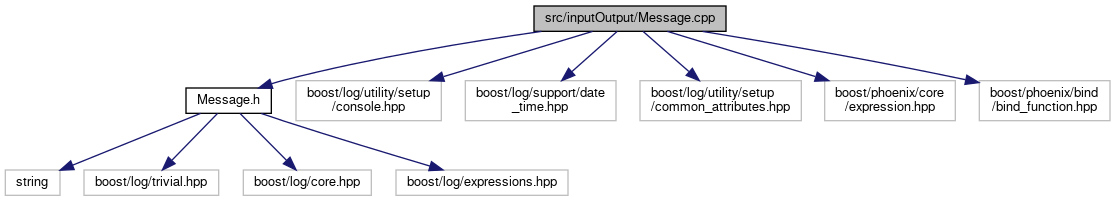
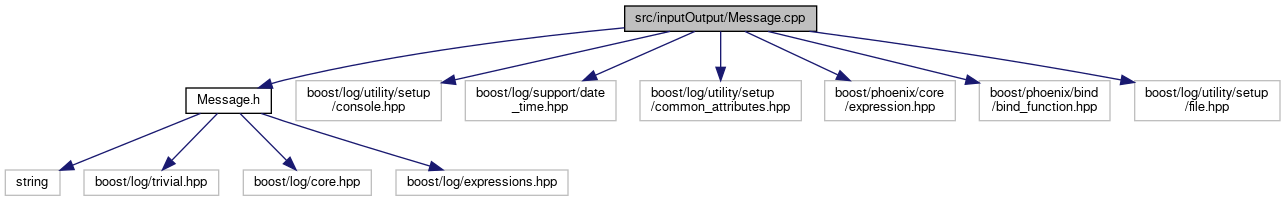
deploy: d9ef6aadc21c082cf5d025acb390889a08f9d525

diff --git a/_message_8h_source.html b/_message_8h_source.html
@@ -96,39 +96,43 @@ $(function() {
 <div class="line"><a name="l00024"></a><span class="lineno">   24</span>&#160;<span class="preprocessor">#include &lt;boost/log/trivial.hpp&gt;</span></div>
 <div class="line"><a name="l00025"></a><span class="lineno">   25</span>&#160;<span class="preprocessor">#include &lt;boost/log/core.hpp&gt;</span></div>
 <div class="line"><a name="l00026"></a><span class="lineno">   26</span>&#160;<span class="preprocessor">#include &lt;boost/log/expressions.hpp&gt;</span></div>
-<div class="line"><a name="l00027"></a><span class="lineno">   27</span>&#160;<span class="keyword">namespace </span><a class="code" href="namespace_e_v_a_a.html">EVAA</a> {</div>
-<div class="line"><a name="l00031"></a><span class="lineno"><a class="line" href="class_e_v_a_a_1_1_message.html">   31</a></span>&#160;    <span class="keyword">class </span><a class="code" href="class_e_v_a_a_1_1_message.html">Message</a> {</div>
-<div class="line"><a name="l00032"></a><span class="lineno">   32</span>&#160;    <span class="keyword">public</span>:</div>
-<div class="line"><a name="l00038"></a><span class="lineno">   38</span>&#160;        <span class="comment">//Message(void);</span></div>
-<div class="line"><a name="l00043"></a><span class="lineno">   43</span>&#160;<span class="comment"></span>        <span class="keywordtype">void</span> <a class="code" href="class_e_v_a_a_1_1_message.html#acbf72b0cb540abf7a7122eb37c1009f5">writeASCIIArt</a>(<span class="keywordtype">void</span>);</div>
-<div class="line"><a name="l00048"></a><span class="lineno">   48</span>&#160;        <span class="keywordtype">void</span> <a class="code" href="class_e_v_a_a_1_1_message.html#a29d03e9abfef13d54e285cdc12f7bf37">init</a>(<span class="keywordtype">void</span>);</div>
-<div class="line"><a name="l00050"></a><span class="lineno">   50</span>&#160;    };</div>
-<div class="line"><a name="l00051"></a><span class="lineno">   51</span>&#160; </div>
-<div class="line"><a name="l00052"></a><span class="lineno">   52</span>&#160; </div>
-<div class="line"><a name="l00053"></a><span class="lineno"><a class="line" href="_message_8h.html#a6ff63e8955665c4a58b1598f2b07c51a">   53</a></span>&#160;<span class="preprocessor">#define LOG_DEBUG \</span></div>
-<div class="line"><a name="l00054"></a><span class="lineno">   54</span>&#160;<span class="preprocessor">    BOOST_LOG_STREAM_WITH_PARAMS(::boost::log::trivial::logger::get(),\</span></div>
-<div class="line"><a name="l00055"></a><span class="lineno">   55</span>&#160;<span class="preprocessor">        (::boost::log::keywords::severity = ::boost::log::trivial::debug))</span></div>
-<div class="line"><a name="l00056"></a><span class="lineno">   56</span>&#160; </div>
-<div class="line"><a name="l00057"></a><span class="lineno"><a class="line" href="_message_8h.html#aeb4f36db01bd128c7afeac5889dac311">   57</a></span>&#160;<span class="preprocessor">#define LOG_INFO \</span></div>
-<div class="line"><a name="l00058"></a><span class="lineno">   58</span>&#160;<span class="preprocessor">        BOOST_LOG_STREAM_WITH_PARAMS(::boost::log::trivial::logger::get(), \</span></div>
-<div class="line"><a name="l00059"></a><span class="lineno">   59</span>&#160;<span class="preprocessor">            (::boost::log::keywords::severity = ::boost::log::trivial::info))</span></div>
-<div class="line"><a name="l00060"></a><span class="lineno">   60</span>&#160; </div>
-<div class="line"><a name="l00061"></a><span class="lineno"><a class="line" href="_message_8h.html#adf4476a6a4ea6c74231c826e899d7189">   61</a></span>&#160;<span class="preprocessor">#define LOG_WARNING \</span></div>
-<div class="line"><a name="l00062"></a><span class="lineno">   62</span>&#160;<span class="preprocessor">            BOOST_LOG_STREAM_WITH_PARAMS(::boost::log::trivial::logger::get(), \</span></div>
-<div class="line"><a name="l00063"></a><span class="lineno">   63</span>&#160;<span class="preprocessor">                (::boost::log::keywords::severity = ::boost::log::trivial::warning))</span></div>
-<div class="line"><a name="l00064"></a><span class="lineno">   64</span>&#160; </div>
-<div class="line"><a name="l00065"></a><span class="lineno"><a class="line" href="_message_8h.html#aced66975c154ea0e2a8ec3bc818b4e08">   65</a></span>&#160;<span class="preprocessor">#define LOG_ERROR \</span></div>
-<div class="line"><a name="l00066"></a><span class="lineno">   66</span>&#160;<span class="preprocessor">            BOOST_LOG_STREAM_WITH_PARAMS(::boost::log::trivial::logger::get(), \</span></div>
-<div class="line"><a name="l00067"></a><span class="lineno">   67</span>&#160;<span class="preprocessor">                (::boost::log::keywords::severity = ::boost::log::trivial::error))</span></div>
-<div class="line"><a name="l00068"></a><span class="lineno">   68</span>&#160; </div>
-<div class="line"><a name="l00069"></a><span class="lineno">   69</span>&#160;}  <span class="comment">// namespace EVAA</span></div>
+<div class="line"><a name="l00027"></a><span class="lineno">   27</span>&#160; </div>
+<div class="line"><a name="l00028"></a><span class="lineno">   28</span>&#160;<span class="keyword">namespace </span><a class="code" href="namespace_e_v_a_a.html">EVAA</a> {</div>
+<div class="line"><a name="l00032"></a><span class="lineno"><a class="line" href="class_e_v_a_a_1_1_message.html">   32</a></span>&#160;    <span class="keyword">class </span><a class="code" href="class_e_v_a_a_1_1_message.html">Message</a> {</div>
+<div class="line"><a name="l00033"></a><span class="lineno">   33</span>&#160;    <span class="keyword">public</span>:</div>
+<div class="line"><a name="l00039"></a><span class="lineno">   39</span>&#160;        <span class="comment">//Message(void);</span></div>
+<div class="line"><a name="l00044"></a><span class="lineno">   44</span>&#160;<span class="comment"></span>        <span class="keywordtype">void</span> <a class="code" href="class_e_v_a_a_1_1_message.html#acbf72b0cb540abf7a7122eb37c1009f5">writeASCIIArt</a>(<span class="keywordtype">void</span>);</div>
+<div class="line"><a name="l00049"></a><span class="lineno">   49</span>&#160;        <span class="keywordtype">void</span> <a class="code" href="class_e_v_a_a_1_1_message.html#a07beaa84345d14c3d4ba4c5a21ef1263">initLogging</a>(<span class="keywordtype">void</span>);</div>
+<div class="line"><a name="l00055"></a><span class="lineno">   55</span>&#160;    <span class="keyword">private</span>:</div>
+<div class="line"><a name="l00056"></a><span class="lineno">   56</span>&#160;        </div>
+<div class="line"><a name="l00058"></a><span class="lineno">   58</span>&#160;    };</div>
+<div class="line"><a name="l00059"></a><span class="lineno">   59</span>&#160;    std::string_view <a class="code" href="namespace_e_v_a_a.html#aa47bd37f8259f0895bb1b77b778b6c82">formatMessage</a>(boost::log::value_ref&lt; std::string, boost::log::expressions::tag::smessage &gt; <span class="keyword">const</span>&amp; t_message);</div>
+<div class="line"><a name="l00060"></a><span class="lineno">   60</span>&#160;    </div>
+<div class="line"><a name="l00061"></a><span class="lineno">   61</span>&#160; </div>
+<div class="line"><a name="l00062"></a><span class="lineno"><a class="line" href="_message_8h.html#a6ff63e8955665c4a58b1598f2b07c51a">   62</a></span>&#160;<span class="preprocessor">#define LOG_DEBUG \</span></div>
+<div class="line"><a name="l00063"></a><span class="lineno">   63</span>&#160;<span class="preprocessor">    BOOST_LOG_STREAM_WITH_PARAMS(::boost::log::trivial::logger::get(),\</span></div>
+<div class="line"><a name="l00064"></a><span class="lineno">   64</span>&#160;<span class="preprocessor">        (::boost::log::keywords::severity = ::boost::log::trivial::debug))</span></div>
+<div class="line"><a name="l00065"></a><span class="lineno">   65</span>&#160; </div>
+<div class="line"><a name="l00066"></a><span class="lineno"><a class="line" href="_message_8h.html#aeb4f36db01bd128c7afeac5889dac311">   66</a></span>&#160;<span class="preprocessor">#define LOG_INFO \</span></div>
+<div class="line"><a name="l00067"></a><span class="lineno">   67</span>&#160;<span class="preprocessor">        BOOST_LOG_STREAM_WITH_PARAMS(::boost::log::trivial::logger::get(), \</span></div>
+<div class="line"><a name="l00068"></a><span class="lineno">   68</span>&#160;<span class="preprocessor">            (::boost::log::keywords::severity = ::boost::log::trivial::info))</span></div>
+<div class="line"><a name="l00069"></a><span class="lineno">   69</span>&#160; </div>
+<div class="line"><a name="l00070"></a><span class="lineno"><a class="line" href="_message_8h.html#adf4476a6a4ea6c74231c826e899d7189">   70</a></span>&#160;<span class="preprocessor">#define LOG_WARNING \</span></div>
+<div class="line"><a name="l00071"></a><span class="lineno">   71</span>&#160;<span class="preprocessor">            BOOST_LOG_STREAM_WITH_PARAMS(::boost::log::trivial::logger::get(), \</span></div>
+<div class="line"><a name="l00072"></a><span class="lineno">   72</span>&#160;<span class="preprocessor">                (::boost::log::keywords::severity = ::boost::log::trivial::warning))</span></div>
+<div class="line"><a name="l00073"></a><span class="lineno">   73</span>&#160; </div>
+<div class="line"><a name="l00074"></a><span class="lineno"><a class="line" href="_message_8h.html#aced66975c154ea0e2a8ec3bc818b4e08">   74</a></span>&#160;<span class="preprocessor">#define LOG_ERROR \</span></div>
+<div class="line"><a name="l00075"></a><span class="lineno">   75</span>&#160;<span class="preprocessor">            BOOST_LOG_STREAM_WITH_PARAMS(::boost::log::trivial::logger::get(), \</span></div>
+<div class="line"><a name="l00076"></a><span class="lineno">   76</span>&#160;<span class="preprocessor">                (::boost::log::keywords::severity = ::boost::log::trivial::error))</span></div>
+<div class="line"><a name="l00077"></a><span class="lineno">   77</span>&#160; </div>
+<div class="line"><a name="l00078"></a><span class="lineno">   78</span>&#160;}  <span class="comment">// namespace EVAA</span></div>
 </div><!-- fragment --></div><!-- contents -->
 <div class="ttc" id="anamespace_e_v_a_a_html"><div class="ttname"><a href="namespace_e_v_a_a.html">EVAA</a></div><div class="ttdef"><b>Definition:</b> EVAAComputeEngine.cpp:24</div></div>
-<div class="ttc" id="aclass_e_v_a_a_1_1_message_html_a29d03e9abfef13d54e285cdc12f7bf37"><div class="ttname"><a href="class_e_v_a_a_1_1_message.html#a29d03e9abfef13d54e285cdc12f7bf37">EVAA::Message::init</a></div><div class="ttdeci">void init(void)</div><div class="ttdoc">Constructor.</div><div class="ttdef"><b>Definition:</b> Message.cpp:48</div></div>
-<div class="ttc" id="aclass_e_v_a_a_1_1_message_html"><div class="ttname"><a href="class_e_v_a_a_1_1_message.html">EVAA::Message</a></div><div class="ttdoc">Class wrapper to boost logging.</div><div class="ttdef"><b>Definition:</b> Message.h:31</div></div>
-<div class="ttc" id="aclass_e_v_a_a_1_1_message_html_acbf72b0cb540abf7a7122eb37c1009f5"><div class="ttname"><a href="class_e_v_a_a_1_1_message.html#acbf72b0cb540abf7a7122eb37c1009f5">EVAA::Message::writeASCIIArt</a></div><div class="ttdeci">void writeASCIIArt(void)</div><div class="ttdoc">Constructor.</div><div class="ttdef"><b>Definition:</b> Message.cpp:63</div></div>
-<div class="ttc" id="anamespace_e_v_a_a_html_ac8051393f5b0a3c5dfefe74dc6592d2c"><div class="ttname"><a href="namespace_e_v_a_a.html#ac8051393f5b0a3c5dfefe74dc6592d2c">EVAA::formatMessage</a></div><div class="ttdeci">std::string_view formatMessage(boost::log::value_ref&lt; std::string, boost::log::expressions::tag::smessage &gt; const &amp;message)</div><div class="ttdef"><b>Definition:</b> Message.cpp:33</div></div>
-<div class="ttc" id="a_message_8h_html_aeb4f36db01bd128c7afeac5889dac311"><div class="ttname"><a href="_message_8h.html#aeb4f36db01bd128c7afeac5889dac311">LOG_INFO</a></div><div class="ttdeci">#define LOG_INFO</div><div class="ttdef"><b>Definition:</b> Message.h:57</div></div>
+<div class="ttc" id="anamespace_e_v_a_a_html_aa47bd37f8259f0895bb1b77b778b6c82"><div class="ttname"><a href="namespace_e_v_a_a.html#aa47bd37f8259f0895bb1b77b778b6c82">EVAA::formatMessage</a></div><div class="ttdeci">std::string_view formatMessage(boost::log::value_ref&lt; std::string, boost::log::expressions::tag::smessage &gt; const &amp;t_message)</div><div class="ttdef"><b>Definition:</b> Message.cpp:33</div></div>
+<div class="ttc" id="aclass_e_v_a_a_1_1_message_html"><div class="ttname"><a href="class_e_v_a_a_1_1_message.html">EVAA::Message</a></div><div class="ttdoc">Class wrapper to boost logging.</div><div class="ttdef"><b>Definition:</b> Message.h:32</div></div>
+<div class="ttc" id="aclass_e_v_a_a_1_1_message_html_acbf72b0cb540abf7a7122eb37c1009f5"><div class="ttname"><a href="class_e_v_a_a_1_1_message.html#acbf72b0cb540abf7a7122eb37c1009f5">EVAA::Message::writeASCIIArt</a></div><div class="ttdeci">void writeASCIIArt(void)</div><div class="ttdoc">Constructor.</div><div class="ttdef"><b>Definition:</b> Message.cpp:72</div></div>
+<div class="ttc" id="a_message_8h_html_aeb4f36db01bd128c7afeac5889dac311"><div class="ttname"><a href="_message_8h.html#aeb4f36db01bd128c7afeac5889dac311">LOG_INFO</a></div><div class="ttdeci">#define LOG_INFO</div><div class="ttdef"><b>Definition:</b> Message.h:66</div></div>
+<div class="ttc" id="aclass_e_v_a_a_1_1_message_html_a07beaa84345d14c3d4ba4c5a21ef1263"><div class="ttname"><a href="class_e_v_a_a_1_1_message.html#a07beaa84345d14c3d4ba4c5a21ef1263">EVAA::Message::initLogging</a></div><div class="ttdeci">void initLogging(void)</div><div class="ttdoc">init logger</div><div class="ttdef"><b>Definition:</b> Message.cpp:47</div></div>
 <div class="ttc" id="a_message_8h_html"><div class="ttname"><a href="_message_8h.html">Message.h</a></div></div>
 <!-- start footer part -->
 <hr class="footer"/><address class="footer"><small>

diff --git a/_auxiliary_functions_8h_source.html b/_auxiliary_functions_8h_source.html
@@ -105,22 +105,23 @@ $(function() {
 <div class="line"><a name="l00047"></a><span class="lineno">   47</span>&#160;}  <span class="comment">// namespace EVAA</span></div>
 </div><!-- fragment --></div><!-- contents -->
 <div class="ttc" id="aclass_e_v_a_a_1_1_auxiliary_functions_html"><div class="ttname"><a href="class_e_v_a_a_1_1_auxiliary_functions.html">EVAA::AuxiliaryFunctions</a></div><div class="ttdef"><b>Definition:</b> AuxiliaryFunctions.h:32</div></div>
-<div class="ttc" id="a_message_8h_html_adf4476a6a4ea6c74231c826e899d7189"><div class="ttname"><a href="_message_8h.html#adf4476a6a4ea6c74231c826e899d7189">LOG_WARNING</a></div><div class="ttdeci">#define LOG_WARNING</div><div class="ttdef"><b>Definition:</b> Message.h:61</div></div>
+<div class="ttc" id="a_message_8h_html_adf4476a6a4ea6c74231c826e899d7189"><div class="ttname"><a href="_message_8h.html#adf4476a6a4ea6c74231c826e899d7189">LOG_WARNING</a></div><div class="ttdeci">#define LOG_WARNING</div><div class="ttdef"><b>Definition:</b> Message.h:70</div></div>
 <div class="ttc" id="anamespace_e_v_a_a_html"><div class="ttname"><a href="namespace_e_v_a_a.html">EVAA</a></div><div class="ttdef"><b>Definition:</b> EVAAComputeEngine.cpp:24</div></div>
 <div class="ttc" id="a_e_v_a_a_compute_engine_8h_html"><div class="ttname"><a href="_e_v_a_a_compute_engine_8h.html">EVAAComputeEngine.h</a></div></div>
-<div class="ttc" id="a_message_8h_html_aced66975c154ea0e2a8ec3bc818b4e08"><div class="ttname"><a href="_message_8h.html#aced66975c154ea0e2a8ec3bc818b4e08">LOG_ERROR</a></div><div class="ttdeci">#define LOG_ERROR</div><div class="ttdef"><b>Definition:</b> Message.h:65</div></div>
-<div class="ttc" id="aclass_e_v_a_a_1_1_message_html_a29d03e9abfef13d54e285cdc12f7bf37"><div class="ttname"><a href="class_e_v_a_a_1_1_message.html#a29d03e9abfef13d54e285cdc12f7bf37">EVAA::Message::init</a></div><div class="ttdeci">void init(void)</div><div class="ttdoc">Constructor.</div><div class="ttdef"><b>Definition:</b> Message.cpp:48</div></div>
+<div class="ttc" id="a_message_8h_html_aced66975c154ea0e2a8ec3bc818b4e08"><div class="ttname"><a href="_message_8h.html#aced66975c154ea0e2a8ec3bc818b4e08">LOG_ERROR</a></div><div class="ttdeci">#define LOG_ERROR</div><div class="ttdef"><b>Definition:</b> Message.h:74</div></div>
+<div class="ttc" id="a_message_8h_html_a6ff63e8955665c4a58b1598f2b07c51a"><div class="ttname"><a href="_message_8h.html#a6ff63e8955665c4a58b1598f2b07c51a">LOG_DEBUG</a></div><div class="ttdeci">#define LOG_DEBUG</div><div class="ttdef"><b>Definition:</b> Message.h:62</div></div>
 <div class="ttc" id="amain_8cpp_html_a3c04138a5bfe5d72780bb7e82a18e627"><div class="ttname"><a href="main_8cpp.html#a3c04138a5bfe5d72780bb7e82a18e627">main</a></div><div class="ttdeci">int main(int argc, char **argv)</div><div class="ttdef"><b>Definition:</b> main.cpp:68</div></div>
 <div class="ttc" id="aclass_e_v_a_a_1_1_auxiliary_parameters_html_a08664589ab24b5dba63d6f0d4622d2a3"><div class="ttname"><a href="class_e_v_a_a_1_1_auxiliary_parameters.html#a08664589ab24b5dba63d6f0d4622d2a3">EVAA::AuxiliaryParameters::gitSHA1</a></div><div class="ttdeci">static const std::string gitSHA1</div><div class="ttdoc">Git hash is determined during configure by cmake.</div><div class="ttdef"><b>Definition:</b> AuxiliaryParameters.h:43</div></div>
-<div class="ttc" id="aclass_e_v_a_a_1_1_message_html"><div class="ttname"><a href="class_e_v_a_a_1_1_message.html">EVAA::Message</a></div><div class="ttdoc">Class wrapper to boost logging.</div><div class="ttdef"><b>Definition:</b> Message.h:31</div></div>
+<div class="ttc" id="aclass_e_v_a_a_1_1_message_html"><div class="ttname"><a href="class_e_v_a_a_1_1_message.html">EVAA::Message</a></div><div class="ttdoc">Class wrapper to boost logging.</div><div class="ttdef"><b>Definition:</b> Message.h:32</div></div>
 <div class="ttc" id="aclass_e_v_a_a_1_1_e_v_a_a_compute_engine_html"><div class="ttname"><a href="class_e_v_a_a_1_1_e_v_a_a_compute_engine.html">EVAA::EVAAComputeEngine</a></div><div class="ttdoc">Class ComputeEngine the core of EVAA.</div><div class="ttdef"><b>Definition:</b> EVAAComputeEngine.h:34</div></div>
 <div class="ttc" id="aclass_e_v_a_a_1_1_auxiliary_functions_html_a71497d0566bfbfa3e9ad34fd2e5edf46"><div class="ttname"><a href="class_e_v_a_a_1_1_auxiliary_functions.html#a71497d0566bfbfa3e9ad34fd2e5edf46">EVAA::AuxiliaryFunctions::AuxiliaryFunctions</a></div><div class="ttdeci">AuxiliaryFunctions()</div><div class="ttdoc">Constructor.</div><div class="ttdef"><b>Definition:</b> AuxiliaryFunctions.cpp:26</div></div>
-<div class="ttc" id="aclass_e_v_a_a_1_1_message_html_acbf72b0cb540abf7a7122eb37c1009f5"><div class="ttname"><a href="class_e_v_a_a_1_1_message.html#acbf72b0cb540abf7a7122eb37c1009f5">EVAA::Message::writeASCIIArt</a></div><div class="ttdeci">void writeASCIIArt(void)</div><div class="ttdoc">Constructor.</div><div class="ttdef"><b>Definition:</b> Message.cpp:63</div></div>
+<div class="ttc" id="aclass_e_v_a_a_1_1_message_html_acbf72b0cb540abf7a7122eb37c1009f5"><div class="ttname"><a href="class_e_v_a_a_1_1_message.html#acbf72b0cb540abf7a7122eb37c1009f5">EVAA::Message::writeASCIIArt</a></div><div class="ttdeci">void writeASCIIArt(void)</div><div class="ttdoc">Constructor.</div><div class="ttdef"><b>Definition:</b> Message.cpp:72</div></div>
 <div class="ttc" id="a_auxiliary_functions_8h_html"><div class="ttname"><a href="_auxiliary_functions_8h.html">AuxiliaryFunctions.h</a></div></div>
 <div class="ttc" id="a_auxiliary_parameters_8h_html"><div class="ttname"><a href="_auxiliary_parameters_8h.html">AuxiliaryParameters.h</a></div></div>
 <div class="ttc" id="aclass_e_v_a_a_1_1_auxiliary_functions_html_ab473255d6d4322110e149996e57fd210"><div class="ttname"><a href="class_e_v_a_a_1_1_auxiliary_functions.html#ab473255d6d4322110e149996e57fd210">EVAA::AuxiliaryFunctions::~AuxiliaryFunctions</a></div><div class="ttdeci">~AuxiliaryFunctions()</div><div class="ttdoc">Destructor.</div><div class="ttdef"><b>Definition:</b> AuxiliaryFunctions.cpp:27</div></div>
 <div class="ttc" id="aclass_e_v_a_a_1_1_e_v_a_a_compute_engine_html_ae076fab71df130b1a7eb17af2f7df3cd"><div class="ttname"><a href="class_e_v_a_a_1_1_e_v_a_a_compute_engine.html#ae076fab71df130b1a7eb17af2f7df3cd">EVAA::EVAAComputeEngine::testHDF5</a></div><div class="ttdeci">void testHDF5(std::string t_outputFileName)</div><div class="ttdoc">Test hdf5 output demo write.</div><div class="ttdef"><b>Definition:</b> EVAAComputeEngine.cpp:29</div></div>
-<div class="ttc" id="a_message_8h_html_aeb4f36db01bd128c7afeac5889dac311"><div class="ttname"><a href="_message_8h.html#aeb4f36db01bd128c7afeac5889dac311">LOG_INFO</a></div><div class="ttdeci">#define LOG_INFO</div><div class="ttdef"><b>Definition:</b> Message.h:57</div></div>
+<div class="ttc" id="a_message_8h_html_aeb4f36db01bd128c7afeac5889dac311"><div class="ttname"><a href="_message_8h.html#aeb4f36db01bd128c7afeac5889dac311">LOG_INFO</a></div><div class="ttdeci">#define LOG_INFO</div><div class="ttdef"><b>Definition:</b> Message.h:66</div></div>
+<div class="ttc" id="aclass_e_v_a_a_1_1_message_html_a07beaa84345d14c3d4ba4c5a21ef1263"><div class="ttname"><a href="class_e_v_a_a_1_1_message.html#a07beaa84345d14c3d4ba4c5a21ef1263">EVAA::Message::initLogging</a></div><div class="ttdeci">void initLogging(void)</div><div class="ttdoc">init logger</div><div class="ttdef"><b>Definition:</b> Message.cpp:47</div></div>
 <div class="ttc" id="a_message_8h_html"><div class="ttname"><a href="_message_8h.html">Message.h</a></div></div>
 <!-- start footer part -->
 <hr class="footer"/><address class="footer"><small>

diff --git a/class_e_v_a_a_1_1_message.html b/class_e_v_a_a_1_1_message.html
@@ -84,21 +84,21 @@ Public Member Functions</h2></td></tr>
 <tr class="memitem:acbf72b0cb540abf7a7122eb37c1009f5"><td class="memItemLeft" align="right" valign="top">void&#160;</td><td class="memItemRight" valign="bottom"><a class="el" href="class_e_v_a_a_1_1_message.html#acbf72b0cb540abf7a7122eb37c1009f5">writeASCIIArt</a> (void)</td></tr>
 <tr class="memdesc:acbf72b0cb540abf7a7122eb37c1009f5"><td class="mdescLeft">&#160;</td><td class="mdescRight">Constructor.  <a href="class_e_v_a_a_1_1_message.html#acbf72b0cb540abf7a7122eb37c1009f5">More...</a><br /></td></tr>
 <tr class="separator:acbf72b0cb540abf7a7122eb37c1009f5"><td class="memSeparator" colspan="2">&#160;</td></tr>
-<tr class="memitem:a29d03e9abfef13d54e285cdc12f7bf37"><td class="memItemLeft" align="right" valign="top">void&#160;</td><td class="memItemRight" valign="bottom"><a class="el" href="class_e_v_a_a_1_1_message.html#a29d03e9abfef13d54e285cdc12f7bf37">init</a> (void)</td></tr>
-<tr class="memdesc:a29d03e9abfef13d54e285cdc12f7bf37"><td class="mdescLeft">&#160;</td><td class="mdescRight">Constructor.  <a href="class_e_v_a_a_1_1_message.html#a29d03e9abfef13d54e285cdc12f7bf37">More...</a><br /></td></tr>
-<tr class="separator:a29d03e9abfef13d54e285cdc12f7bf37"><td class="memSeparator" colspan="2">&#160;</td></tr>
+<tr class="memitem:a07beaa84345d14c3d4ba4c5a21ef1263"><td class="memItemLeft" align="right" valign="top">void&#160;</td><td class="memItemRight" valign="bottom"><a class="el" href="class_e_v_a_a_1_1_message.html#a07beaa84345d14c3d4ba4c5a21ef1263">initLogging</a> (void)</td></tr>
+<tr class="memdesc:a07beaa84345d14c3d4ba4c5a21ef1263"><td class="mdescLeft">&#160;</td><td class="mdescRight">init logger  <a href="class_e_v_a_a_1_1_message.html#a07beaa84345d14c3d4ba4c5a21ef1263">More...</a><br /></td></tr>
+<tr class="separator:a07beaa84345d14c3d4ba4c5a21ef1263"><td class="memSeparator" colspan="2">&#160;</td></tr>
 </table>
 <a name="details" id="details"></a><h2 class="groupheader">Detailed Description</h2>
 <div class="textblock"><p>Class wrapper to boost logging. </p>
 </div><h2 class="groupheader">Member Function Documentation</h2>
-<a id="a29d03e9abfef13d54e285cdc12f7bf37"></a>
-<h2 class="memtitle"><span class="permalink"><a href="#a29d03e9abfef13d54e285cdc12f7bf37">&#9670;&nbsp;</a></span>init()</h2>
+<a id="a07beaa84345d14c3d4ba4c5a21ef1263"></a>
+<h2 class="memtitle"><span class="permalink"><a href="#a07beaa84345d14c3d4ba4c5a21ef1263">&#9670;&nbsp;</a></span>initLogging()</h2>
 
 <div class="memitem">
 <div class="memproto">
       <table class="memname">
         <tr>
-          <td class="memname">void EVAA::Message::init </td>
+          <td class="memname">void EVAA::Message::initLogging </td>
           <td>(</td>
           <td class="paramtype">void&#160;</td>
           <td class="paramname"></td><td>)</td>
@@ -107,23 +107,23 @@ Public Member Functions</h2></td></tr>
       </table>
 </div><div class="memdoc">
 
-<p>Constructor. </p>
+<p>init logger </p>
 <dl class="section author"><dt>Author</dt><dd>Stefan Sicklinger </dd></dl>
 <div class="dynheader">
 Here is the call graph for this function:</div>
 <div class="dyncontent">
-<div class="center"><img src="class_e_v_a_a_1_1_message_a29d03e9abfef13d54e285cdc12f7bf37_cgraph.png" border="0" usemap="#aclass_e_v_a_a_1_1_message_a29d03e9abfef13d54e285cdc12f7bf37_cgraph" alt=""/></div>
-<map name="class_e_v_a_a_1_1_message_a29d03e9abfef13d54e285cdc12f7bf37_cgraph" id="aclass_e_v_a_a_1_1_message_a29d03e9abfef13d54e285cdc12f7bf37_cgraph">
-<area shape="rect" title="Constructor." alt="" coords="5,5,144,32"/>
-<area shape="rect" href="namespace_e_v_a_a.html#ac8051393f5b0a3c5dfefe74dc6592d2c" title=" " alt="" coords="192,5,345,32"/>
+<div class="center"><img src="class_e_v_a_a_1_1_message_a07beaa84345d14c3d4ba4c5a21ef1263_cgraph.png" border="0" usemap="#aclass_e_v_a_a_1_1_message_a07beaa84345d14c3d4ba4c5a21ef1263_cgraph" alt=""/></div>
+<map name="class_e_v_a_a_1_1_message_a07beaa84345d14c3d4ba4c5a21ef1263_cgraph" id="aclass_e_v_a_a_1_1_message_a07beaa84345d14c3d4ba4c5a21ef1263_cgraph">
+<area shape="rect" title="init logger" alt="" coords="5,5,191,32"/>
+<area shape="rect" href="namespace_e_v_a_a.html#aa47bd37f8259f0895bb1b77b778b6c82" title=" " alt="" coords="239,5,392,32"/>
 </map>
 </div>
 <div class="dynheader">
 Here is the caller graph for this function:</div>
 <div class="dyncontent">
-<div class="center"><img src="class_e_v_a_a_1_1_message_a29d03e9abfef13d54e285cdc12f7bf37_icgraph.png" border="0" usemap="#aclass_e_v_a_a_1_1_message_a29d03e9abfef13d54e285cdc12f7bf37_icgraph" alt=""/></div>
-<map name="class_e_v_a_a_1_1_message_a29d03e9abfef13d54e285cdc12f7bf37_icgraph" id="aclass_e_v_a_a_1_1_message_a29d03e9abfef13d54e285cdc12f7bf37_icgraph">
-<area shape="rect" title="Constructor." alt="" coords="104,5,243,32"/>
+<div class="center"><img src="class_e_v_a_a_1_1_message_a07beaa84345d14c3d4ba4c5a21ef1263_icgraph.png" border="0" usemap="#aclass_e_v_a_a_1_1_message_a07beaa84345d14c3d4ba4c5a21ef1263_icgraph" alt=""/></div>
+<map name="class_e_v_a_a_1_1_message_a07beaa84345d14c3d4ba4c5a21ef1263_icgraph" id="aclass_e_v_a_a_1_1_message_a07beaa84345d14c3d4ba4c5a21ef1263_icgraph">
+<area shape="rect" title="init logger" alt="" coords="104,5,289,32"/>
 <area shape="rect" href="main_8cpp.html#a3c04138a5bfe5d72780bb7e82a18e627" title=" " alt="" coords="5,5,56,32"/>
 </map>
 </div>

diff --git a/namespace_e_v_a_a.html b/namespace_e_v_a_a.html
@@ -86,12 +86,12 @@ Classes</h2></td></tr>
 </table><table class="memberdecls">
 <tr class="heading"><td colspan="2"><h2 class="groupheader"><a name="func-members"></a>
 Functions</h2></td></tr>
-<tr class="memitem:ac8051393f5b0a3c5dfefe74dc6592d2c"><td class="memItemLeft" align="right" valign="top">std::string_view&#160;</td><td class="memItemRight" valign="bottom"><a class="el" href="namespace_e_v_a_a.html#ac8051393f5b0a3c5dfefe74dc6592d2c">formatMessage</a> (boost::log::value_ref&lt; std::string, boost::log::expressions::tag::smessage &gt; const &amp;message)</td></tr>
-<tr class="separator:ac8051393f5b0a3c5dfefe74dc6592d2c"><td class="memSeparator" colspan="2">&#160;</td></tr>
+<tr class="memitem:aa47bd37f8259f0895bb1b77b778b6c82"><td class="memItemLeft" align="right" valign="top">std::string_view&#160;</td><td class="memItemRight" valign="bottom"><a class="el" href="namespace_e_v_a_a.html#aa47bd37f8259f0895bb1b77b778b6c82">formatMessage</a> (boost::log::value_ref&lt; std::string, boost::log::expressions::tag::smessage &gt; const &amp;t_message)</td></tr>
+<tr class="separator:aa47bd37f8259f0895bb1b77b778b6c82"><td class="memSeparator" colspan="2">&#160;</td></tr>
 </table>
 <h2 class="groupheader">Function Documentation</h2>
-<a id="ac8051393f5b0a3c5dfefe74dc6592d2c"></a>
-<h2 class="memtitle"><span class="permalink"><a href="#ac8051393f5b0a3c5dfefe74dc6592d2c">&#9670;&nbsp;</a></span>formatMessage()</h2>
+<a id="aa47bd37f8259f0895bb1b77b778b6c82"></a>
+<h2 class="memtitle"><span class="permalink"><a href="#aa47bd37f8259f0895bb1b77b778b6c82">&#9670;&nbsp;</a></span>formatMessage()</h2>
 
 <div class="memitem">
 <div class="memproto">
@@ -100,7 +100,7 @@ Functions</h2></td></tr>
           <td class="memname">std::string_view EVAA::formatMessage </td>
           <td>(</td>
           <td class="paramtype">boost::log::value_ref&lt; std::string, boost::log::expressions::tag::smessage &gt; const &amp;&#160;</td>
-          <td class="paramname"><em>message</em></td><td>)</td>
+          <td class="paramname"><em>t_message</em></td><td>)</td>
           <td></td>
         </tr>
       </table>
@@ -108,10 +108,10 @@ Functions</h2></td></tr>
 <div class="dynheader">
 Here is the caller graph for this function:</div>
 <div class="dyncontent">
-<div class="center"><img src="namespace_e_v_a_a_ac8051393f5b0a3c5dfefe74dc6592d2c_icgraph.png" border="0" usemap="#anamespace_e_v_a_a_ac8051393f5b0a3c5dfefe74dc6592d2c_icgraph" alt=""/></div>
-<map name="namespace_e_v_a_a_ac8051393f5b0a3c5dfefe74dc6592d2c_icgraph" id="anamespace_e_v_a_a_ac8051393f5b0a3c5dfefe74dc6592d2c_icgraph">
-<area shape="rect" title=" " alt="" coords="291,5,444,32"/>
-<area shape="rect" href="class_e_v_a_a_1_1_message.html#a29d03e9abfef13d54e285cdc12f7bf37" title="Constructor." alt="" coords="104,5,243,32"/>
+<div class="center"><img src="namespace_e_v_a_a_aa47bd37f8259f0895bb1b77b778b6c82_icgraph.png" border="0" usemap="#anamespace_e_v_a_a_aa47bd37f8259f0895bb1b77b778b6c82_icgraph" alt=""/></div>
+<map name="namespace_e_v_a_a_aa47bd37f8259f0895bb1b77b778b6c82_icgraph" id="anamespace_e_v_a_a_aa47bd37f8259f0895bb1b77b778b6c82_icgraph">
+<area shape="rect" title=" " alt="" coords="337,5,491,32"/>
+<area shape="rect" href="class_e_v_a_a_1_1_message.html#a07beaa84345d14c3d4ba4c5a21ef1263" title="init logger" alt="" coords="104,5,289,32"/>
 <area shape="rect" href="main_8cpp.html#a3c04138a5bfe5d72780bb7e82a18e627" title=" " alt="" coords="5,5,56,32"/>
 </map>
 </div>

diff --git a/_message_8cpp.html b/_message_8cpp.html
@@ -79,18 +79,20 @@ $(function() {
 <code>#include &lt;boost/log/utility/setup/common_attributes.hpp&gt;</code><br />
 <code>#include &lt;boost/phoenix/core/expression.hpp&gt;</code><br />
 <code>#include &lt;boost/phoenix/bind/bind_function.hpp&gt;</code><br />
+<code>#include &lt;boost/log/utility/setup/file.hpp&gt;</code><br />
 </div><div class="textblock"><div class="dynheader">
 Include dependency graph for Message.cpp:</div>
 <div class="dyncontent">
 <div class="center"><img src="_message_8cpp__incl.png" border="0" usemap="#asrc_2input_output_2_message_8cpp" alt=""/></div>
 <map name="src_2input_output_2_message_8cpp" id="asrc_2input_output_2_message_8cpp">
-<area shape="rect" title=" " alt="" coords="534,5,726,32"/>
+<area shape="rect" title=" " alt="" coords="625,5,817,32"/>
 <area shape="rect" href="_message_8h.html" title=" " alt="" coords="186,87,271,114"/>
 <area shape="rect" title=" " alt="" coords="296,80,441,121"/>
 <area shape="rect" title=" " alt="" coords="465,80,616,121"/>
 <area shape="rect" title=" " alt="" coords="640,80,801,121"/>
 <area shape="rect" title=" " alt="" coords="825,80,955,121"/>
 <area shape="rect" title=" " alt="" coords="979,80,1110,121"/>
+<area shape="rect" title=" " alt="" coords="1135,80,1280,121"/>
 <area shape="rect" title=" " alt="" coords="5,169,60,196"/>
 <area shape="rect" title=" " alt="" coords="84,169,219,196"/>
 <area shape="rect" title=" " alt="" coords="243,169,371,196"/>
@@ -105,8 +107,8 @@ Namespaces</h2></td></tr>
 </table><table class="memberdecls">
 <tr class="heading"><td colspan="2"><h2 class="groupheader"><a name="func-members"></a>
 Functions</h2></td></tr>
-<tr class="memitem:ac8051393f5b0a3c5dfefe74dc6592d2c"><td class="memItemLeft" align="right" valign="top">std::string_view&#160;</td><td class="memItemRight" valign="bottom"><a class="el" href="namespace_e_v_a_a.html#ac8051393f5b0a3c5dfefe74dc6592d2c">EVAA::formatMessage</a> (boost::log::value_ref&lt; std::string, boost::log::expressions::tag::smessage &gt; const &amp;message)</td></tr>
-<tr class="separator:ac8051393f5b0a3c5dfefe74dc6592d2c"><td class="memSeparator" colspan="2">&#160;</td></tr>
+<tr class="memitem:aa47bd37f8259f0895bb1b77b778b6c82"><td class="memItemLeft" align="right" valign="top">std::string_view&#160;</td><td class="memItemRight" valign="bottom"><a class="el" href="namespace_e_v_a_a.html#aa47bd37f8259f0895bb1b77b778b6c82">EVAA::formatMessage</a> (boost::log::value_ref&lt; std::string, boost::log::expressions::tag::smessage &gt; const &amp;t_message)</td></tr>
+<tr class="separator:aa47bd37f8259f0895bb1b77b778b6c82"><td class="memSeparator" colspan="2">&#160;</td></tr>
 </table>
 </div><!-- contents -->
 <!-- start footer part -->

diff --git a/_message_8h.html b/_message_8h.html
@@ -69,7 +69,8 @@ $(function() {
   <div class="summary">
 <a href="#nested-classes">Classes</a> &#124;
 <a href="#namespaces">Namespaces</a> &#124;
-<a href="#define-members">Macros</a>  </div>
+<a href="#define-members">Macros</a> &#124;
+<a href="#func-members">Functions</a>  </div>
   <div class="headertitle">
 <div class="title">Message.h File Reference</div>  </div>
 </div><!--header-->
@@ -124,6 +125,11 @@ Macros</h2></td></tr>
 <tr class="separator:adf4476a6a4ea6c74231c826e899d7189"><td class="memSeparator" colspan="2">&#160;</td></tr>
 <tr class="memitem:aced66975c154ea0e2a8ec3bc818b4e08"><td class="memItemLeft" align="right" valign="top">#define&#160;</td><td class="memItemRight" valign="bottom"><a class="el" href="_message_8h.html#aced66975c154ea0e2a8ec3bc818b4e08">LOG_ERROR</a></td></tr>
 <tr class="separator:aced66975c154ea0e2a8ec3bc818b4e08"><td class="memSeparator" colspan="2">&#160;</td></tr>
+</table><table class="memberdecls">
+<tr class="heading"><td colspan="2"><h2 class="groupheader"><a name="func-members"></a>
+Functions</h2></td></tr>
+<tr class="memitem:aa47bd37f8259f0895bb1b77b778b6c82"><td class="memItemLeft" align="right" valign="top">std::string_view&#160;</td><td class="memItemRight" valign="bottom"><a class="el" href="namespace_e_v_a_a.html#aa47bd37f8259f0895bb1b77b778b6c82">EVAA::formatMessage</a> (boost::log::value_ref&lt; std::string, boost::log::expressions::tag::smessage &gt; const &amp;t_message)</td></tr>
+<tr class="separator:aa47bd37f8259f0895bb1b77b778b6c82"><td class="memSeparator" colspan="2">&#160;</td></tr>
 </table>
 <h2 class="groupheader">Macro Definition Documentation</h2>
 <a id="a6ff63e8955665c4a58b1598f2b07c51a"></a>

diff --git a/class_e_v_a_a_1_1_message-members.html b/class_e_v_a_a_1_1_message-members.html
@@ -73,7 +73,7 @@ $(function() {
 
 <p>This is the complete list of members for <a class="el" href="class_e_v_a_a_1_1_message.html">EVAA::Message</a>, including all inherited members.</p>
 <table class="directory">
-  <tr class="even"><td class="entry"><a class="el" href="class_e_v_a_a_1_1_message.html#a29d03e9abfef13d54e285cdc12f7bf37">init</a>(void)</td><td class="entry"><a class="el" href="class_e_v_a_a_1_1_message.html">EVAA::Message</a></td><td class="entry"></td></tr>
+  <tr class="even"><td class="entry"><a class="el" href="class_e_v_a_a_1_1_message.html#a07beaa84345d14c3d4ba4c5a21ef1263">initLogging</a>(void)</td><td class="entry"><a class="el" href="class_e_v_a_a_1_1_message.html">EVAA::Message</a></td><td class="entry"></td></tr>
   <tr><td class="entry"><a class="el" href="class_e_v_a_a_1_1_message.html#acbf72b0cb540abf7a7122eb37c1009f5">writeASCIIArt</a>(void)</td><td class="entry"><a class="el" href="class_e_v_a_a_1_1_message.html">EVAA::Message</a></td><td class="entry"></td></tr>
 </table></div><!-- contents -->
 <!-- start footer part -->

diff --git a/main_8cpp.html b/main_8cpp.html
@@ -136,8 +136,8 @@ Here is the call graph for this function:</div>
 <div class="center"><img src="main_8cpp_a3c04138a5bfe5d72780bb7e82a18e627_cgraph.png" border="0" usemap="#amain_8cpp_a3c04138a5bfe5d72780bb7e82a18e627_cgraph" alt=""/></div>
 <map name="main_8cpp_a3c04138a5bfe5d72780bb7e82a18e627_cgraph" id="amain_8cpp_a3c04138a5bfe5d72780bb7e82a18e627_cgraph">
 <area shape="rect" title=" " alt="" coords="5,5,56,32"/>
-<area shape="rect" href="class_e_v_a_a_1_1_message.html#a29d03e9abfef13d54e285cdc12f7bf37" title="Constructor." alt="" coords="104,5,243,32"/>
-<area shape="rect" href="namespace_e_v_a_a.html#ac8051393f5b0a3c5dfefe74dc6592d2c" title=" " alt="" coords="291,5,444,32"/>
+<area shape="rect" href="class_e_v_a_a_1_1_message.html#a07beaa84345d14c3d4ba4c5a21ef1263" title="init logger" alt="" coords="104,5,289,32"/>
+<area shape="rect" href="namespace_e_v_a_a.html#aa47bd37f8259f0895bb1b77b778b6c82" title=" " alt="" coords="337,5,491,32"/>
 </map>
 </div>
 

diff --git a/search/all_4.js b/search/all_4.js
@@ -1,5 +1,5 @@
 var searchData=
 [
   ['file_12',['file',['../_c_make_lists_8txt.html#a90a73f2a482fa97064ec367e671911c3',1,'file(GLOB SOURCES *.cpp) add_subdirectory($:&#160;CMakeLists.txt'],['../input_output_2_c_make_lists_8txt.html#ae35aca317eea3c389143fc626e6c0b55',1,'file(GLOB SOURCES *.cpp *.c) add_subdirectory($:&#160;CMakeLists.txt'],['../tools_2_c_make_lists_8txt.html#ae35aca317eea3c389143fc626e6c0b55',1,'file(GLOB SOURCES *.cpp *.c) add_subdirectory($:&#160;CMakeLists.txt']]],
-  ['formatmessage_13',['formatMessage',['../namespace_e_v_a_a.html#ac8051393f5b0a3c5dfefe74dc6592d2c',1,'EVAA']]]
+  ['formatmessage_13',['formatMessage',['../namespace_e_v_a_a.html#aa47bd37f8259f0895bb1b77b778b6c82',1,'EVAA']]]
 ];

diff --git a/search/functions_2.js b/search/functions_2.js
@@ -1,5 +1,5 @@
 var searchData=
 [
   ['file_49',['file',['../_c_make_lists_8txt.html#a90a73f2a482fa97064ec367e671911c3',1,'file(GLOB SOURCES *.cpp) add_subdirectory($:&#160;CMakeLists.txt'],['../input_output_2_c_make_lists_8txt.html#ae35aca317eea3c389143fc626e6c0b55',1,'file(GLOB SOURCES *.cpp *.c) add_subdirectory($:&#160;CMakeLists.txt'],['../tools_2_c_make_lists_8txt.html#ae35aca317eea3c389143fc626e6c0b55',1,'file(GLOB SOURCES *.cpp *.c) add_subdirectory($:&#160;CMakeLists.txt']]],
-  ['formatmessage_50',['formatMessage',['../namespace_e_v_a_a.html#ac8051393f5b0a3c5dfefe74dc6592d2c',1,'EVAA']]]
+  ['formatmessage_50',['formatMessage',['../namespace_e_v_a_a.html#aa47bd37f8259f0895bb1b77b778b6c82',1,'EVAA']]]
 ];

diff --git a/functions_func.html b/functions_func.html
@@ -69,8 +69,8 @@ $(function() {
 <li>EVAAComputeEngine()
 : <a class="el" href="class_e_v_a_a_1_1_e_v_a_a_compute_engine.html#a489372739e2c1803bb9c18b1106aedbc">EVAA::EVAAComputeEngine</a>
 </li>
-<li>init()
-: <a class="el" href="class_e_v_a_a_1_1_message.html#a29d03e9abfef13d54e285cdc12f7bf37">EVAA::Message</a>
+<li>initLogging()
+: <a class="el" href="class_e_v_a_a_1_1_message.html#a07beaa84345d14c3d4ba4c5a21ef1263">EVAA::Message</a>
 </li>
 <li>testHDF5()
 : <a class="el" href="class_e_v_a_a_1_1_e_v_a_a_compute_engine.html#ae076fab71df130b1a7eb17af2f7df3cd">EVAA::EVAAComputeEngine</a>

diff --git a/functions.html b/functions.html
@@ -78,8 +78,8 @@ $(function() {
 <li>gitTAG
 : <a class="el" href="class_e_v_a_a_1_1_auxiliary_parameters.html#a6bb7a0f17fd1a2d1b98d6a55e0ebc37c">EVAA::AuxiliaryParameters</a>
 </li>
-<li>init()
-: <a class="el" href="class_e_v_a_a_1_1_message.html#a29d03e9abfef13d54e285cdc12f7bf37">EVAA::Message</a>
+<li>initLogging()
+: <a class="el" href="class_e_v_a_a_1_1_message.html#a07beaa84345d14c3d4ba4c5a21ef1263">EVAA::Message</a>
 </li>
 <li>machineEpsilon
 : <a class="el" href="class_e_v_a_a_1_1_auxiliary_parameters.html#a6976542c6b14812034697e952722bdb1">EVAA::AuxiliaryParameters</a>
